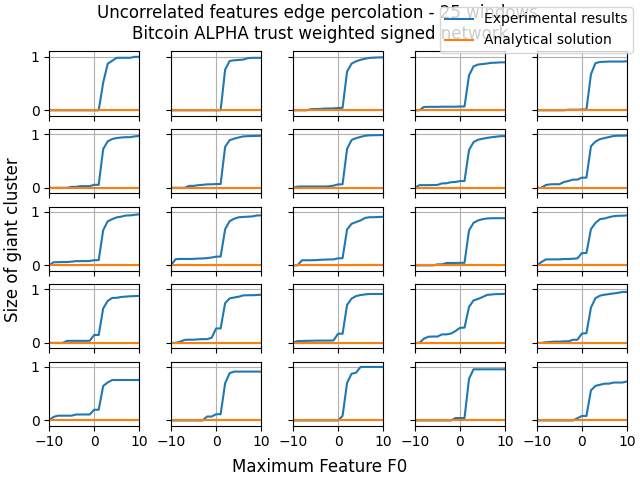
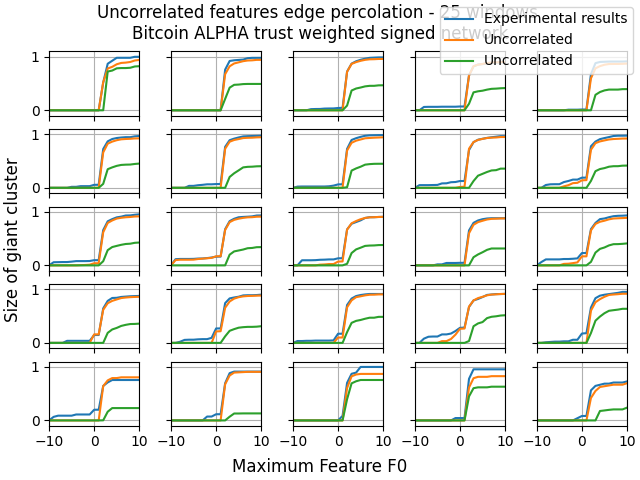
bitcoin vis fixed corr

diff --git a/visualization/bitcoin_vis.py b/visualization/bitcoin_vis.py
@@ -51,7 +51,7 @@ def findCorrelations(df):
 
     p_f_sum = lambda f, s: f_degreesum_freq[s][f]/sum(f_degreesum_freq[s].values()) if s in f_degreesum_freq and f in f_degreesum_freq[s] else 0
     
-    return lambda f, s: p_f_sum(f, s)*p_sum(s)
+    return lambda f, s: p_f_sum(f, s), df['degreesum'].max()
 
 class UncorrelatedFeatureEdgePercolation:
     
@@ -106,14 +106,26 @@ class CorrelatedFeatureEdgePercolation(UncorrelatedFeatureEdgePercolation):
         super().__init__(net_size, exp_data)
 
         self.pfkk_func = pfkk_func
-
-    def computeAnalitycalSolution(self, degdist, excdegdist, lower_limit, upper_limit=100, pgr_bar=None):
-
+        
+    def computeAnalitycalSolutionCorr(self, degdist, excdegdist, lower_limit, upper_limit=100, pgr_bar=None):
+        
         def pfkk(f, m):
+            #print(f"f: {f}, m: {m}, pfkk {self.pfkk_func(f, m)}, poisson: {poisson.pmf(f, m)}")
             return self.pfkk_func(f, m)
-
+        """
+        def pfkk(f, m):
+            return poisson.pmf(f, m)
+        """
         def psi(u, k, F0):
             return sum([sum([excdegdist(m-1) * pfkk(f, (m+k)) * (1-u[m-1]) for m in range(1, upper_limit)]) for f in range(0, F0)])
+
+        """
+        def psi(u, k, F0):
+            #a = np.exp(-degdistmean)* sum([(1-u[m-1])*degdistmean**(m-1) / factorial(m-1) * gammaincc(F0, k+m) for m in range(1, upper_limit)])
+            #b = sum([sum([excdegdist(m-1) * pfkk(f, (m+k)) * (1-u[m-1]) for m in range(1, upper_limit)]) for f in range(0, F0)])
+            c = sum([(1-u[m-1])* excdegdist(m-1) * gammaincc(F0, (k+m)) for m in range(1, upper_limit)])
+            return c
+        """
 
         def func(F0):
             def vecfunc(u):
@@ -134,17 +146,32 @@ class CorrelatedFeatureEdgePercolation(UncorrelatedFeatureEdgePercolation):
             S = sum([degdist(k)*(1-W[k]) for k in range(0, upper_limit)])
             return (F0, S[0])
 
-        self.sol_data = [0]*len(self.bins)
+        self.sol_data_corr = [0]*len(self.bins)
         with tqdm(total=len(self.bins)) as pbar:
             with mp.Pool(mp.cpu_count()) as pool:
                 for idx, val in pool.imap_unordered(func, self.bins):
-                    self.sol_data[idx] = val
+                    #quit()
+                    if(idx==0):
+                        val = 0
+                    self.sol_data_corr[idx] = val
                     pbar.update()
+        print(self.sol_data_corr)
 
     def getPlot(self, plt_ax, description, shift=0, scale=1):
-        super().getPlot(plt_ax, description, shift, scale)
-        #plt.title("Correlated features edge percolation \n"+description)
-        #plt.xlabel("Maximum Feaure F0 - P(F | k, k') = Poisson(k+k')")
+        plt_ax.plot((self.bins+shift)/scale, self.exp_data, label='Experimental results')#, linestyle='none', marker='o', fillstyle='none')
+        plt_ax.plot((self.bins+shift)/scale, self.sol_data, label="Uncorrelated")#, marker='o', fillstyle='none')
+        plt_ax.plot((self.bins+shift)/scale, self.sol_data_corr, label="Uncorrelated")#, marker='o', fillstyle='none')
+        #print(shift, scale, len(self.exp_data))
+        if(not self.exp_data):
+            return
+        #plt_ax.set_xlim(((-0.5+shift)/scale, (len(self.bins)-0.5+shift)/scale))
+        plt_ax.set_xlim((-10, 10))
+        plt_ax.set_ylim((-0.1, 1.1))
+        #plt_ax.set_title(description)#"Uncorrelated features edge percolation \n"+
+        #plt_ax.legend(loc='upper left')
+        #plt_ax.set_xlabel("Maximum Feature F0")
+        #plt_ax.set_ylabel("Size of giant cluster")
+        plt_ax.grid(True)
         #return plt
 
 def plotdistribution(plt_ax, dist, lower_limit, upper_limit, shift=0, scale=1):
@@ -191,9 +218,16 @@ def main():
         def excdegdist(k):
             return degdist(k+1)*(k+1)/degdistmean
 
-        pfkk = findCorrelations(df)
+        pfkk, max_sum = findCorrelations(df)
+        print(max_sum)
+        #a = np.array([[pfkk(i, j) for j in range(100)] for i in range(21)])
+        #plt.figure()
+        #ax_perc[i//num_cols, i%(num_rows)].imshow(a, cmap='hot', interpolation='nearest')
+        #plt.show()
+        
         plotter = CorrelatedFeatureEdgePercolation(nodes, exp_data[i*max_feat:(i+1)*max_feat], pfkk)#[feat_range[i][0]:feat_range[i][1]])
-        plotter.computeAnalitycalSolution(degdist, excdegdist, 0, 100, None)
+        plotter.computeAnalitycalSolution(featdist, degdist, excdegdist, max_deg, None)
+        plotter.computeAnalitycalSolutionCorr(degdist, excdegdist, 0, min(max_sum+1, 100), None)
         print(f"axperc[{i//num_cols}, {i%(num_rows)}]")
         plotter.getPlot(ax_perc[i//num_cols, i%(num_rows)], "Bitcoin", -10, 1)
         
@@ -214,8 +248,8 @@ def main():
     fig_feat.supylabel("Probability")
     fig_feat.suptitle("Feature distribution - 25 windows \n"+"Bitcoin ALPHA trust weighted signed network")
     """
-    #plt.show()
     plt.savefig("./results/figures/bitcoin.png")
+    plt.show()
     print("plot saved")
 
 if __name__ == "__main__":
